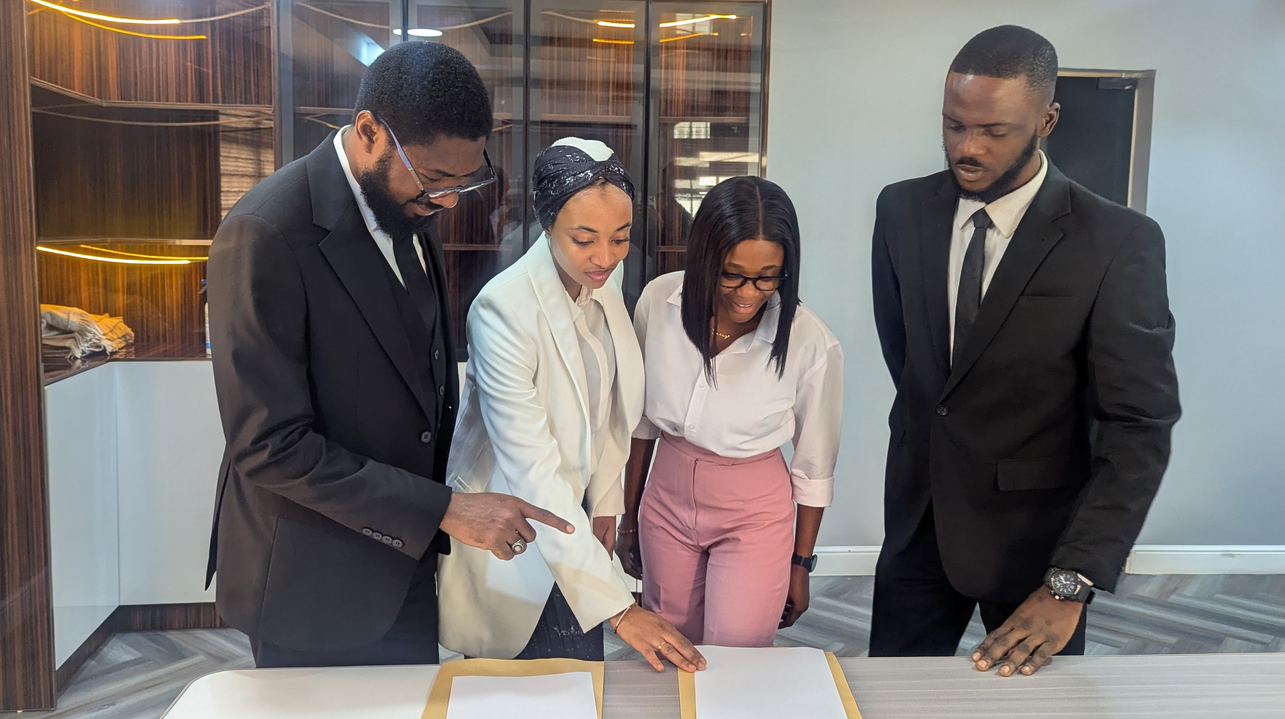
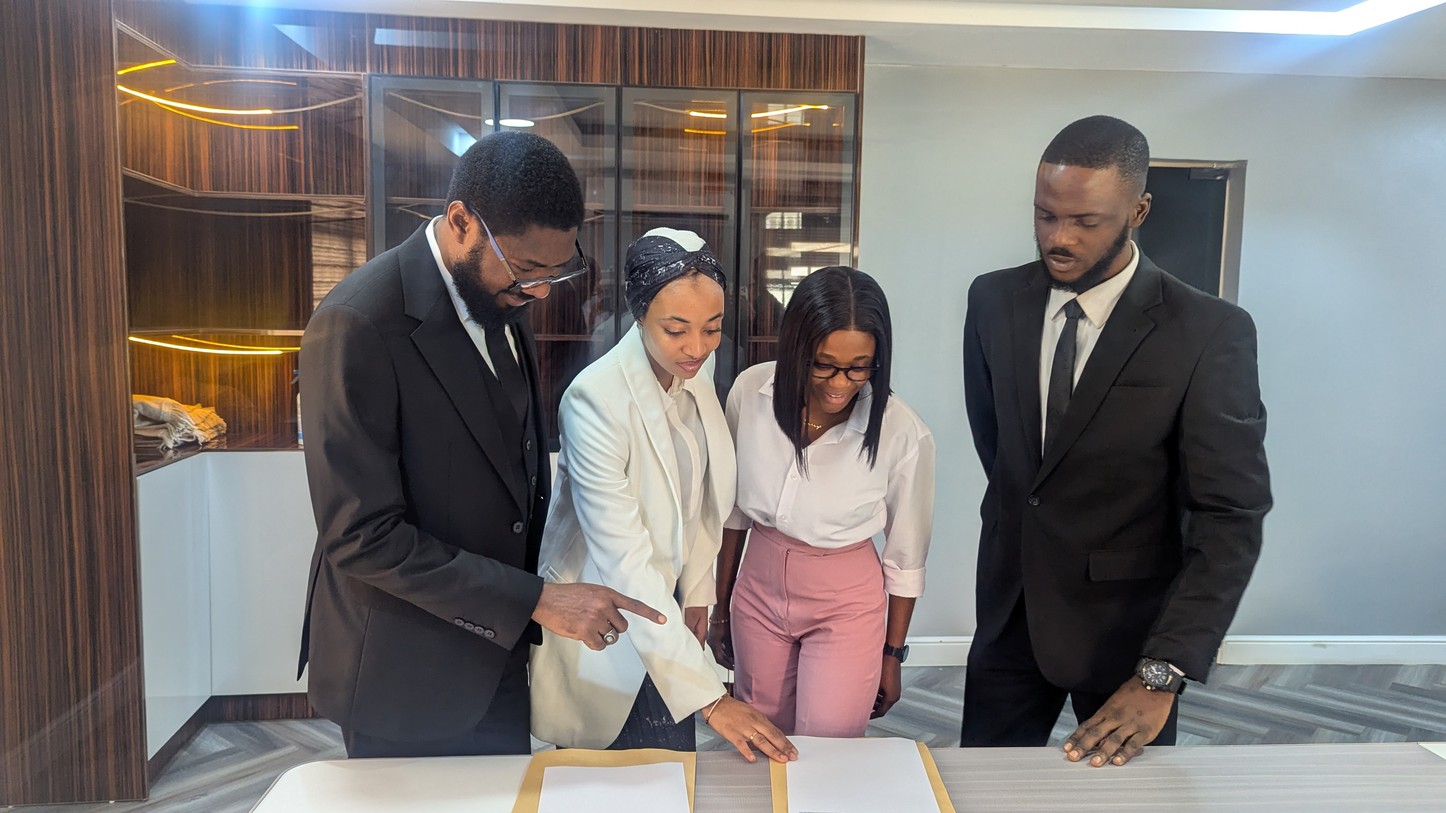
update

diff --git a/src/app/services/page.tsx b/src/app/services/page.tsx
@@ -444,7 +444,7 @@ export default function ServicesPage() {
                         backgroundRepeat: "no-repeat",
                         backgroundPosition:
                           item.image === "/prime-1.jpg"
-                            ? "center 85%"
+                            ? "center 100%"
                             : undefined,
                       }}
                     >

diff --git a/src/app/page.tsx b/src/app/page.tsx
@@ -810,7 +810,7 @@ export default function HomePage() {
                         backgroundRepeat: "no-repeat",
                         backgroundPosition:
                           item.image === "/prime-1.jpg"
-                            ? "center 85%"
+                            ? "center 100%"
                             : undefined,
                       }}
                     >
